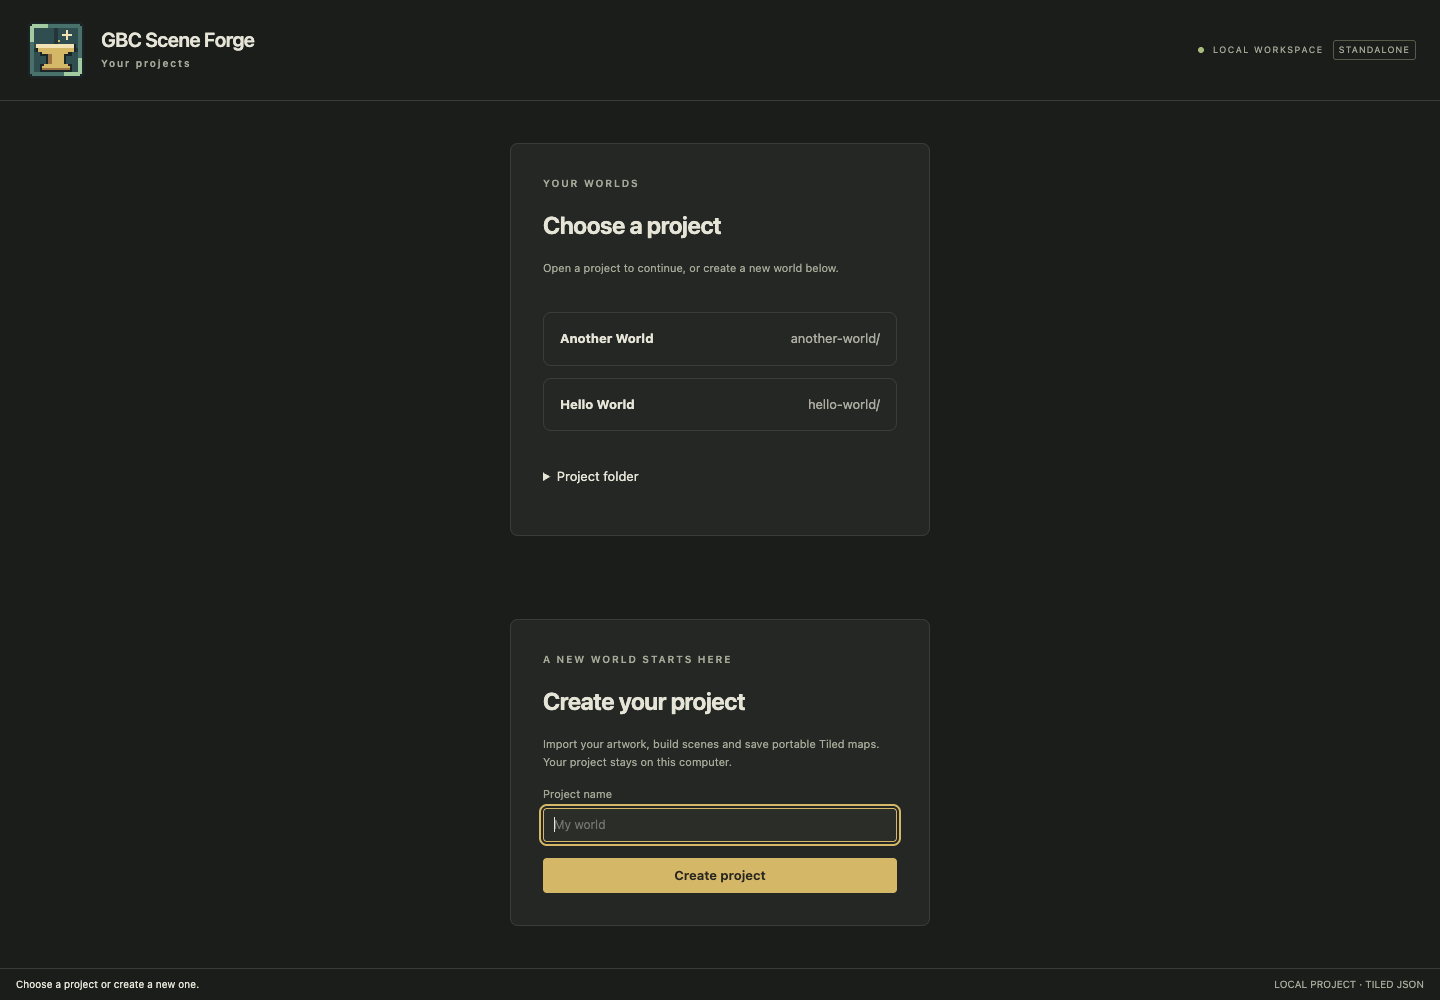
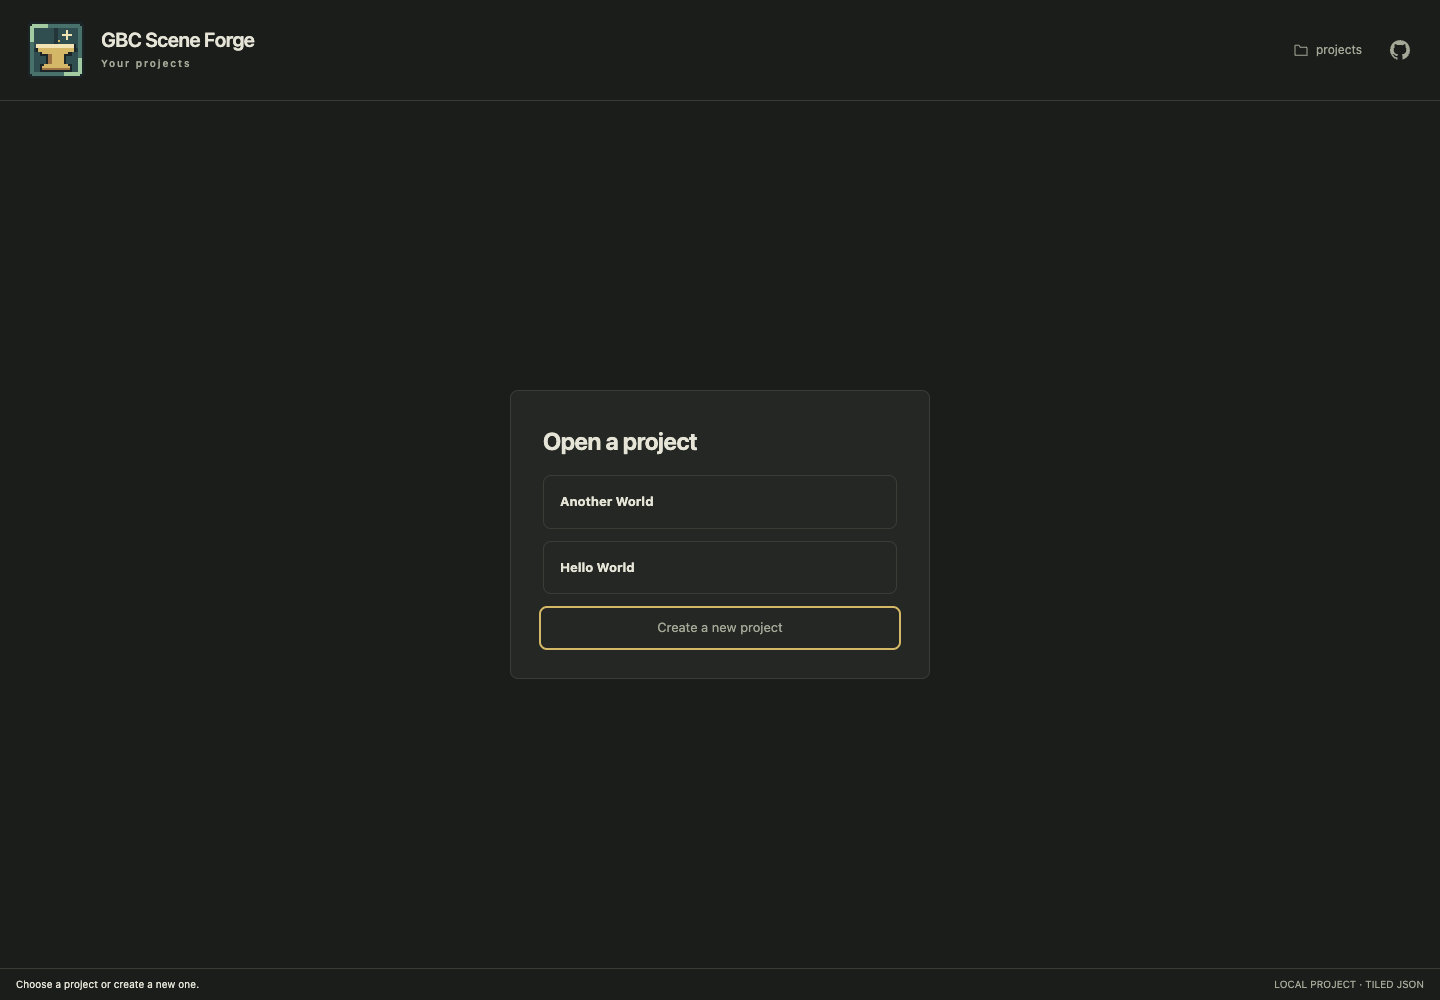
Refresh README and prepare 0.3.1

diff --git a/src/gbc_scene_forge/__init__.py b/src/gbc_scene_forge/__init__.py
@@ -1,3 +1,3 @@
 """Standalone local scene editor for imported artwork and portable Tiled projects."""
 
-__version__ = "0.3.0"
+__version__ = "0.3.1"

diff --git a/README.md b/README.md
@@ -1,5 +1,8 @@
 # GBC Scene Forge
 
+[![Package checks](https://github.com/cliffom/gbc-scene-forge/actions/workflows/ci.yml/badge.svg?branch=main)](https://github.com/cliffom/gbc-scene-forge/actions/workflows/ci.yml)
+[![Publish package](https://github.com/cliffom/gbc-scene-forge/actions/workflows/publish.yml/badge.svg)](https://github.com/cliffom/gbc-scene-forge/actions/workflows/publish.yml)
+
 ![GBC Scene Forge — Build a world. One tile at a time.](assets/branding/hero.png)
 
 Scene Forge is a local browser editor for building tile-based scenes from imported
@@ -12,7 +15,7 @@ Your projects stay on your computer.
 Install the release with Python 3.10 or newer:
 
 ```sh
-python -m pip install gbc-scene-forge==0.3.0
+python -m pip install gbc-scene-forge==0.3.1
 gbc-scene-forge
 ```
 
@@ -30,6 +33,7 @@ make run
 ### Create your first project
 
 1. On the project selector, enter **Hello World** and choose **Create project**.
+   If projects already exist, choose **Create a new project** first.
 2. Choose **Import atlas**, then **Browse folder…**. Select your atlas folder,
    choose a `*.atlas.json` manifest if needed, and confirm the import. Forge copies
    the artwork into the project, so you can move the original import folder later.
@@ -43,8 +47,9 @@ unsaved edits, choose whether to save, discard, or keep editing before switching
 
 ### Open another project
 
-Choose **Projects…** at the top of the workspace to return to the project selector.
-You can open an existing project or create another one without restarting Forge.
+Use the **Project** dropdown beside the scene selector to open another project.
+Choose **Choose or create project…** to return to the project selector, then open
+an existing project or choose **Create a new project**, without restarting Forge.
 If your scene has unsaved edits, choose **Save and switch**, **Discard and switch**,
 or **Keep editing**. If saving fails, your edits stay in the current workspace.
 
@@ -88,9 +93,9 @@ make run PROJECT_ROOT="$HOME/Scene Forge Projects"
 
 Use the same location on later launches to see those projects again. Unsupported
 or damaged manifests are reported in the selector so you can identify the folder
-that needs attention. Version 0.3.0 continues to use manifest format version 1.
+that needs attention. Version 0.3.1 continues to use manifest format version 1.
 
-### Bring an existing project into 0.3.0
+### Bring an existing project into 0.3.1
 
 Existing 0.2.0 projects keep their artwork, scene IDs and manifest format. To add
 one to the selector, stop Forge and move the whole project folder into your
@@ -210,7 +215,7 @@ Generated JavaScript is Git-ignored. After frontend edits, run `make frontend`
 and reload the page; launch, demo, browser-test and build commands rebuild it for
 you. Release packages include the prebuilt UI.
 
-See [the 0.3.0 release notes](docs/RELEASE-0.3.0.md) and
+See [the 0.3.1 release notes](docs/RELEASE-0.3.1.md) and
 [building and releasing](docs/RELEASING.md) for release validation and publication.
 
 ## License

diff --git a/docs/RELEASE-0.3.1.md b/docs/RELEASE-0.3.1.md
@@ -1,0 +1,46 @@
+# Scene Forge 0.3.1
+
+## Project and scene selection
+
+Switch projects from the **Project** dropdown beside the scene selector. Choose
+**Choose or create project…** to open the simplified project selector or create
+another project. Unsaved changes still offer save, discard and cancel choices.
+Open saved scenes directly from the scene dropdown. The compact folder button
+beside the GitHub link shows the current directory and offers **Copy path**.
+
+## Editing improvements
+
+- Drag layer grips to reorder layers, with undo support and clearer controls for
+  selecting, renaming and showing hidden layers.
+- Hold Space and drag to pan temporarily, then return to the active editing tool.
+- Zoom around the pointer with the mouse wheel, or use **Fit scene** to center
+  the map at a whole-number zoom level.
+- See unsaved changes beside the scene selector and an accented **Save scene**
+  button when edits need saving.
+- Inspect selected tiles and objects at the top of the inspector. Mouse-operated
+  tools and dropdowns return focus to the canvas; keyboard navigation keeps focus.
+
+## Sample and development
+
+The bundled sample now comes from the tracked portable project in
+`assets/demo/project/`, with editable Aseprite sources, exported artwork and an
+atlas manifest alongside it. `make demo` restores that project on every launch;
+use `make run PROJECT=.demo` to preserve edits.
+
+Development uses Python 3.13, Poetry 2.4–2.x and Node 24 (24.12+). CI checks the
+same built wheel on Python 3.10 through 3.14. The installed editor still supports
+Python 3.10+ with no Node or additional Python runtime dependencies.
+
+## Compatibility and installation
+
+Manifest schema remains version 1. Existing 0.2.0 and 0.3.0 projects need no format
+migration. The project-root and direct-project CLI behavior introduced in 0.3.0
+is unchanged.
+
+```sh
+python -m pip install gbc-scene-forge==0.3.1
+gbc-scene-forge
+```
+
+See the [README](../README.md) for setup and the
+[editor guide](STANDALONE.md) for controls and project storage.

diff --git a/docs/RELEASING.md b/docs/RELEASING.md
@@ -73,7 +73,7 @@ publishing page. Use the official [trusted publisher setup guide](https://docs.p
 The workflow follows the [Python Packaging User Guide](https://packaging.python.org/en/latest/guides/publishing-package-distribution-releases-using-github-actions-ci-cd-workflows/)
 and uses short-lived OIDC credentials; no PyPI API token is stored in the repository.
 
-After reviewing and committing a release, create and push an annotated `v0.3.0`
+After reviewing and committing a release, create and push an annotated `v0.3.1`
 tag (or the matching next version). Run **Publish package** manually against that
 tag, selecting `testpypi` first when its trusted publisher is configured. TestPyPI
 is currently unconfigured; its 0.1.4 upload failed with `invalid-publisher`. Until
@@ -83,12 +83,13 @@ with `tests/package_smoke.py` after publication. The workflow rebuilds and
 checks the distributions, checks the tag against the package version, then uploads
 only those verified artifacts. Pushing a tag alone does not publish.
 
-## Release 0.3.0
+## Release 0.3.1
 
-Version 0.3.0 adds project roots, named project directories, a project selector,
-and save-aware workspace switching. It also includes the editable standalone sample
-and Make development workflow. Manifest schema remains version 1.
-See [release notes and compatibility changes](RELEASE-0.3.0.md).
+Version 0.3.1 improves project selection, layer controls, canvas navigation and
+save feedback. It bundles the tracked editable sample project and expands
+installed-wheel compatibility checks through Python 3.14. Manifest schema remains
+version 1; existing 0.2.0 and 0.3.0 projects need no format migration.
+See [release notes](RELEASE-0.3.1.md).
 
 Before tagging, run:
 

diff --git a/docs/STANDALONE.md b/docs/STANDALONE.md
@@ -11,8 +11,10 @@ gbc-scene-forge --project-root /path/to/projects --port 8777
 make run PROJECT_ROOT=/path/to/projects PORT=8777
 ```
 
-Open the printed local URL. Choose **Projects…** to change projects; unsaved scene
-edits offer **Save and switch**, **Discard and switch**, or **Keep editing**.
+Open the printed local URL. Use the **Project** dropdown beside the scene selector
+to change projects, or choose **Choose or create project…** to return to the
+selector. Unsaved scene edits offer **Save and switch**, **Discard and switch**,
+or **Keep editing**.
 Failed saves keep the current workspace and edits. Opening a project reloads the
 workspace, clears undo/redo and selections, and resets previews. Requests are
 scoped to the project's URL, so another tab cannot change their destination.
